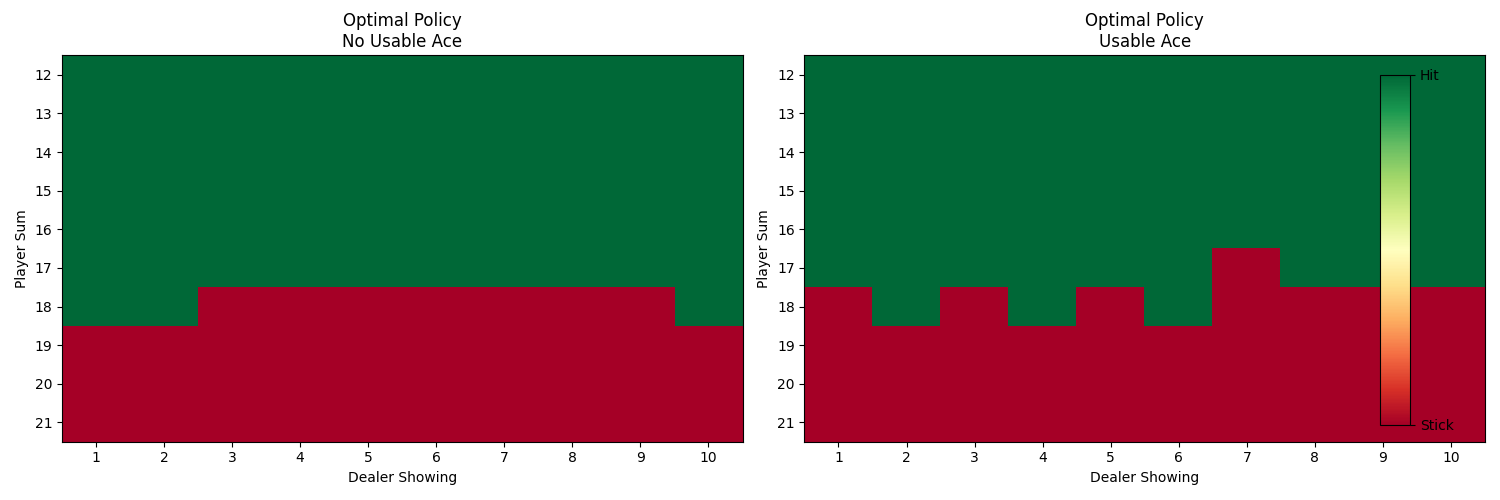
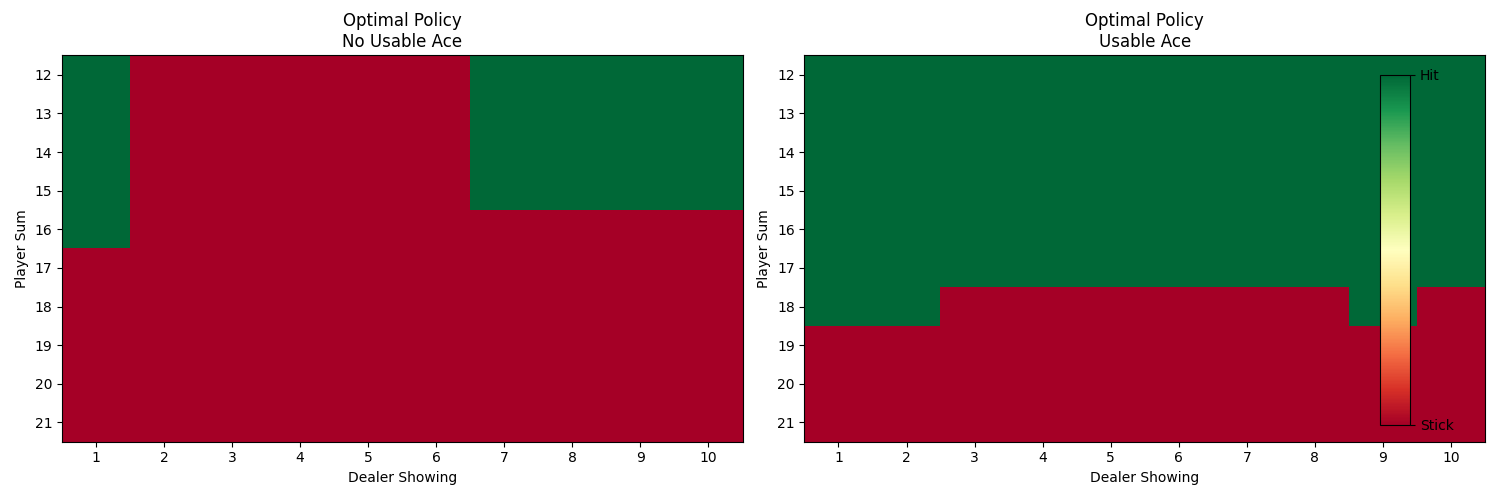
Fix files

Changed region(s): [[0.0307, 0.09, 0.5827, 0.66], [0.6747, 0.48, 0.8587, 0.66], [0.8893, 0.57, 0.9507, 0.66]]

diff --git a/blackjack/algorithms/monte_carlo_agent.py b/blackjack/algorithms/monte_carlo_agent.py
@@ -1,31 +1,28 @@
 from collections import defaultdict
 import numpy as np
+from blackjack.algorithms.base_agent import BaseAgent
 from blackjack.environment import BlackjackEnv
-import matplotlib.pyplot as plt
-from mpl_toolkits.mplot3d import Axes3D
 
 
-class MonteCarloAgent:
-    def __init__(self, env, discount_factor=0.9, episilon=0.1):
+class MonteCarloAgent(BaseAgent):
+    def __init__(self, env, discount_factor=0.9, epsilon=0.1):
         """
-        Initialize the RL agent.
+        Initialize the Monte Carlo agent.
         :param env: The environment instance
         :param discount_factor: Discount factor (gamma)
+        :param epsilon: Exploration rate
         """
-        self.env: BlackjackEnv = env
-        self.discount_factor = discount_factor
-        # (s, a) -> Value
+        super().__init__(env, discount_factor)
         self.Q = defaultdict(lambda: np.zeros(len(self.env.action_space)))
         self.returns_count = defaultdict(lambda: np.zeros(2))
-        self.policy = {}  # Current policy
-        self.episilon = episilon
+        self.epsilon = epsilon
 
-    def train(self, num_episodes=10000, threshold=0.1):
+    def train(self, num_episodes=10000):
         """
-        Train the MCRL agent
+        Train the Monte Carlo agent using exploring starts
         """
         wins = 0
-        episode_window = 10000  # Track win rate over last 1000 episodes
+        episode_window = 10000
         win_rates = []
 
         for episode in range(num_episodes):
@@ -34,8 +31,11 @@ class MonteCarloAgent:
             done = False
 
             while not done:
+                # Update policy for current state
                 self.policy[state] = np.argmax(self.Q[state])
-                if np.random.rand() < self.episilon:
+
+                # Epsilon-greedy action selection
+                if np.random.rand() < self.epsilon:
                     action = self.env.action_space[np.random.randint(2)]
                 else:
                     action = self.policy.get(
@@ -50,12 +50,14 @@ class MonteCarloAgent:
             if reward == 1:
                 wins += 1
 
+            # Print win rate periodically
             if (episode + 1) % episode_window == 0:
                 win_rate = wins / episode_window
                 win_rates.append(win_rate)
                 print(f"Episode {episode + 1}/{num_episodes}, Win Rate: {win_rate:.3f}")
-                wins = 0  # Reset counter
+                wins = 0
 
+            # Update Q-values
             G = 0
             for state, action, reward in reversed(episode_data):
                 G = reward + self.discount_factor * G
@@ -64,143 +66,7 @@ class MonteCarloAgent:
                     G - self.Q[state][action]
                 ) / self.returns_count[state][action]
 
-    def act(self, state):
-        """
-        Get the best action for a given state based on the current policy.
-        :param state: Current state (tuple)
-        :return: Action
-        """
-        return self.policy[state]
-
-    def save_policy(self, filename):
-        """
-        Save the policy to a file.
-        :param filename: Name of the file
-        """
-        np.save(filename, self.policy)
-        print(f"Policy saved to {filename}")
-
-    def load_policy(self, filename):
-        """
-        Load the policy from a file.
-        :param filename: Name of the file
-        """
-        self.policy = np.load(filename)
-        print(f"Policy loaded from {filename}")
-
-    def plot_value_function(self, show=True, save_path=None):
-        """
-        Plot the value function as 3D surface plots, similar to Sutton & Barto.
-        Shows player sum (12-21) vs dealer card (1-10) for both usable and non-usable ace.
-        """
-        player_sums = range(12, 22)
-        dealer_cards = range(1, 11)
-
-        # Create meshgrid for the plot
-        X, Y = np.meshgrid(dealer_cards, player_sums)
-
-        # Initialize value arrays for both ace scenarios
-        Z_no_ace = np.zeros_like(X, dtype=float)
-        Z_ace = np.zeros_like(X, dtype=float)
-
-        # Calculate values
-        for i, player in enumerate(player_sums):
-            for j, dealer in enumerate(dealer_cards):
-                # Get max value for each state instead of sum
-                state_no_ace = (player, dealer, False)
-                state_ace = (player, dealer, True)
-                policy_action_no_ace = self.policy.get(state_no_ace, 0)
-                policy_action_ace = self.policy.get(state_ace, 0)
-
-                Z_no_ace[i][j] = self.Q[state_no_ace][policy_action_no_ace]
-                Z_ace[i][j] = self.Q[state_ace][policy_action_ace]
-
-        # Flip arrays vertically to match conventional representation
-        Z_no_ace = np.flipud(Z_no_ace)
-        Z_ace = np.flipud(Z_ace)
-
-        # Create the plots
-        fig = plt.figure(figsize=(15, 6))
-
-        # Plot no usable ace
-        ax1 = fig.add_subplot(121, projection="3d")
-        surf1 = ax1.plot_surface(X, Y, Z_no_ace, cmap=plt.cm.viridis)
-        ax1.set_title("Value Function\nNo Usable Ace")
-        ax1.set_xlabel("Dealer Showing")
-        ax1.set_ylabel("Player Sum")
-        ax1.set_zlabel("Value")
-        fig.colorbar(surf1)
-
-        # Plot usable ace
-        ax2 = fig.add_subplot(122, projection="3d")
-        surf2 = ax2.plot_surface(X, Y, Z_ace, cmap=plt.cm.viridis)
-        ax2.set_title("Value Function\nUsable Ace")
-        ax2.set_xlabel("Dealer Showing")
-        ax2.set_ylabel("Player Sum")
-        ax2.set_zlabel("Value")
-        fig.colorbar(surf2)
-
-        if save_path:
-            plt.savefig(save_path)
-        if show:
-            plt.show()
-
-    def plot_policy(self, show=True, save_path=None):
-        """
-        Plot the optimal policy as 2D grids.
-        Shows player sum (12-21) vs dealer card (1-10) for both usable and non-usable ace.
-        """
-        player_sums = range(12, 22)
-        dealer_cards = range(1, 11)
-
-        # Initialize policy arrays for both ace scenarios
-        policy_no_ace = np.zeros((len(player_sums), len(dealer_cards)))
-        policy_ace = np.zeros((len(player_sums), len(dealer_cards)))
-
-        # Get policy for each state
-        for i, player in enumerate(player_sums):
-            for j, dealer in enumerate(dealer_cards):
-                state_no_ace = (player, dealer, False)
-                state_ace = (player, dealer, True)
-                # Get action with highest value (0 = stick, 1 = hit)
-                policy_no_ace[i][j] = np.argmax(self.Q[state_no_ace])
-                policy_ace[i][j] = np.argmax(self.Q[state_ace])
-
-        fig, (ax1, ax2) = plt.subplots(1, 2, figsize=(15, 5))
-
-        # Plot no usable ace
-        im1 = ax1.imshow(policy_no_ace, cmap="RdYlGn", aspect="auto")
-        ax1.set_title("Optimal Policy\nNo Usable Ace")
-        ax1.set_xlabel("Dealer Showing")
-        ax1.set_ylabel("Player Sum")
-        ax1.set_xticks(range(len(dealer_cards)))
-        ax1.set_yticks(range(len(player_sums)))
-        ax1.set_xticklabels(dealer_cards)
-        ax1.set_yticklabels(player_sums)
-
-        # Plot usable ace
-        im2 = ax2.imshow(policy_ace, cmap="RdYlGn", aspect="auto")
-        ax2.set_title("Optimal Policy\nUsable Ace")
-        ax2.set_xlabel("Dealer Showing")
-        ax2.set_ylabel("Player Sum")
-        ax2.set_xticks(range(len(dealer_cards)))
-        ax2.set_yticks(range(len(player_sums)))
-        ax2.set_xticklabels(dealer_cards)
-        ax2.set_yticklabels(player_sums)
-
-        # Add colorbar
-        cbar_ax = fig.add_axes([0.92, 0.15, 0.02, 0.7])
-        cbar = fig.colorbar(im2, cax=cbar_ax)
-        cbar.set_ticks([0, 1])
-        cbar.set_ticklabels(["Stick", "Hit"])
-
-        plt.tight_layout()
-
-        if save_path:
-            plt.savefig(save_path)
-        if show:
-            plt.show()
-        plt.close()
+        return win_rates
 
 
 if __name__ == "__main__":

diff --git a/blackjack/algorithms/base_agent.py b/blackjack/algorithms/base_agent.py
@@ -1,5 +1,6 @@
 import numpy as np
 from blackjack.environment import BlackjackEnv
+import matplotlib.pyplot as plt
 
 
 class BaseAgent:
@@ -11,7 +12,9 @@ class BaseAgent:
         """
         self.env: BlackjackEnv = env
         self.discount_factor = discount_factor
-        self.policy = np.zeros(env.state_space_dims, dtype=int)
+        self.policy = (
+            {}
+        )  # Changed from np.zeros to dict for sparse state representation
 
     def train(self, max_iterations=1000, threshold=0.1):
         """
@@ -19,26 +22,85 @@ class BaseAgent:
         """
         raise NotImplementedError("Train method not implemented")
 
-    def act(self, state):
+    def plot_value_function(self, show=True, save_path=None):
         """
-        Get the best action for a given state based on the current policy.
-        :param state: Current state (tuple)
-        :return: Action
+        Plot the value function as 3D surface plots.
         """
-        return self.policy[state]
+        player_sums = range(12, 22)
+        dealer_cards = range(1, 11)
+        X, Y = np.meshgrid(dealer_cards, player_sums)
+        Z_no_ace = np.zeros_like(X, dtype=float)
+        Z_ace = np.zeros_like(X, dtype=float)
 
-    def save_policy(self, filename):
-        """
-        Save the policy to a file.
-        :param filename: Name of the file
-        """
-        np.save(filename, self.policy)
-        print(f"Policy saved to {filename}")
+        # Calculate values
+        for i, player in enumerate(player_sums):
+            for j, dealer in enumerate(dealer_cards):
+                state_no_ace = (player, dealer, 0)
+                state_ace = (player, dealer, 1)
+                policy_action_no_ace = self.policy.get(state_no_ace, 0)
+                policy_action_ace = self.policy.get(state_ace, 0)
 
-    def load_policy(self, filename):
+                Z_no_ace[i][j] = self.Q[state_no_ace][policy_action_no_ace]
+                Z_ace[i][j] = self.Q[state_ace][policy_action_ace]
+
+        Z_no_ace = np.flipud(Z_no_ace)
+        Z_ace = np.flipud(Z_ace)
+
+        # Create plots
+        fig = plt.figure(figsize=(15, 6))
+
+        # Plot no usable ace
+        ax1 = fig.add_subplot(121, projection="3d")
+        surf1 = ax1.plot_surface(X, Y, Z_no_ace, cmap=plt.cm.viridis)
+        ax1.set_title("Value Function\nNo Usable Ace")
+        ax1.set_xlabel("Dealer Showing")
+        ax1.set_ylabel("Player Sum")
+        ax1.set_zlabel("Value")
+        fig.colorbar(surf1)
+
+        # Plot usable ace
+        ax2 = fig.add_subplot(122, projection="3d")
+        surf2 = ax2.plot_surface(X, Y, Z_ace, cmap=plt.cm.viridis)
+        ax2.set_title("Value Function\nUsable Ace")
+        ax2.set_xlabel("Dealer Showing")
+        ax2.set_ylabel("Player Sum")
+        ax2.set_zlabel("Value")
+        fig.colorbar(surf2)
+
+        if save_path:
+            plt.savefig(save_path)
+        if show:
+            plt.show()
+        plt.close()
+
+    def plot_policy(self, show=True, save_path=None):
         """
-        Load the policy from a file.
-        :param filename: Name of the file
+        Plot the optimal policy as 2D grids.
         """
-        self.policy = np.load(filename)
-        print(f"Policy loaded from {filename}")
+        player_sums = range(12, 22)
+        dealer_cards = range(1, 11)
+
+        policy_no_ace = np.zeros((len(player_sums), len(dealer_cards)))
+        policy_ace = np.zeros((len(player_sums), len(dealer_cards)))
+
+        for i, player in enumerate(player_sums):
+            for j, dealer in enumerate(dealer_cards):
+                state_no_ace = (player, dealer, 0)
+                state_ace = (player, dealer, 1)
+                policy_no_ace[i][j] = np.argmax(self.Q[state_no_ace])
+                policy_ace[i][j] = np.argmax(self.Q[state_ace])
+
+        # Flip arrays vertically
+        policy_no_ace = np.flipud(policy_no_ace)
+        policy_ace = np.flipud(policy_ace)
+
+        fig, (ax1, ax2) = plt.subplots(1, 2, figsize=(15, 5))
+
+        im1 = ax1.imshow(policy_no_ace, cmap="RdYlGn", aspect="auto")
+        ax1.set_title("Optimal Policy\nNo Usable Ace")
+        ax1.set_xlabel("Dealer Showing")
+        ax1.set_ylabel("Player Sum")
+        ax1.set_xticks(range(len(dealer_cards)))
+        ax1.set_yticks(range(len(player_sums)))
+        ax1.set_xticklabels(dealer_cards)
+        ax1.set_yticklabels(reversed(player_sums))

diff --git a/car_rental/algorithms/monte_carlo.py b/car_rental/algorithms/monte_carlo.py
@@ -1,6 +1,7 @@
 from enum import StrEnum
 import numpy as np
-from car_rental.algorithms.base_agent import BaseAgent
+from blackjack.algorithms.base_agent import BaseAgent
+from blackjack.environment import BlackjackEnv
 
 
 class VisitModes(StrEnum):
@@ -90,3 +91,12 @@ class MonteCarloAgent(BaseAgent):
 
             if episode_num % 10 == 0:
                 print(f"Episode {episode_num}, Best Return: {best_return:.2f}")
+
+
+if __name__ == "__main__":
+    env = BlackjackEnv()
+    agent = MonteCarloAgent(env)
+    agent.train(n_episodes=100000)
+    agent.save_policy("car_rental_policy.npy")
+    agent.plot_value_function(show=True, save_path="car_rental_value_function.png")
+    agent.plot_policy(show=True, save_path="car_rental_policy.png")
